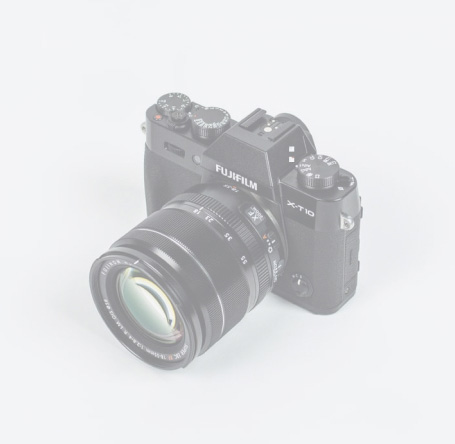
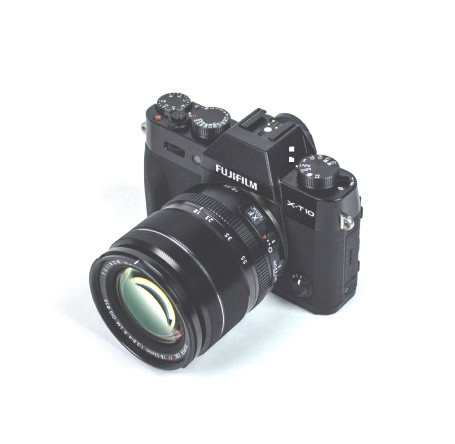
I finished block "latestWorks", added hover effect

Changed region(s): [[0.1846, 0.205, 0.8, 0.8491]]

diff --git a/index.html b/index.html
@@ -176,75 +176,78 @@
           </li>
         </ul>
       </div>
-      <div class="latest-works__btn">
-        <a href="#" class="latest-works__link">
-          <div class="latest-works_block">
-            <h3 class="latest-works__block__title">100 YEARS PHOTOGRAPHY</h3>
-            <div class="latest-works__block__item">
-              <div class="latest-works__block__img">
-                <img class="first-img" src="/images/latest_works_01.jpg" />
-                <img class="hover-img" src="/images/latest_works_01_dark.jpg" />
-              </div>
-              <p class="latest-works__block__text">Photography</p>
+      <div class="latest-works__block">
+        <a href="#" class="latest-works__btn">
+          <h3 class="latest-works__block__title">100 YEARS PHOTOGRAPHY</h3>
+          <div class="latest-works__block__item">
+            <div class="latest-works__block__img">
+              <img src="/images/latest_works_01.jpg" alt="camera" />
+            </div>
+            <div class="latest-works__block-text right">
+              <h5 class="latest-works__text__title">Photography</h5>
+              <p>
+                Lorem ipsum dolor sit amet, consectetur adipisicing elit.
+                Deleniti debitis cum.
+              </p>
             </div>
           </div>
         </a>
       </div>
-      <div class="latest-works__btn">
-        <a href="#" class="latest-works__link">
-          <div class="latest-works_block">
-            <h3 class="latest-works__block__title left">
-              A KITTEN'S <br />
-              LIFE
-            </h3>
-            <div class="latest-works__block__item left">
-              <div class="latest-works__block__img">
-                <img
-                  src="/images/latest_works_02.jpg"
-                  alt="camera"
-                  width="455"
-                />
-              </div>
-              <p class="latest-works__block__text">Photography</p>
+      <div class="latest-works__block">
+        <a href="#" class="latest-works__btn">
+          <h3 class="latest-works__block__title left">
+            A KITTEN'S <br />
+            LIFE
+          </h3>
+          <div class="latest-works__block__item left">
+            <div class="latest-works__block__img">
+              <img src="/images/latest_works_02.jpg" alt="camera" width="455" />
+            </div>
+            <div class="latest-works__block-text">
+              <h5 class="latest-works__text__title">Photography</h5>
+              <p>
+                Lorem ipsum dolor sit amet, consectetur adipisicing elit.
+                Deleniti debitis cum.
+              </p>
             </div>
           </div>
         </a>
       </div>
-      <div class="latest-works__btn">
-        <a href="#" class="latest-works__link">
-          <div class="latest-works_block">
-            <h3 class="latest-works__block__title">
-              GROOVEMADE PRODUCTS FOR MAC
-            </h3>
-            <div class="latest-works__block__item">
-              <div class="latest-works__block__img">
-                <img
-                  src="/images/latest_works_03.jpg"
-                  alt="camera"
-                  width="455"
-                />
-              </div>
-              <p class="latest-works__block__text">Photography</p>
+      <div class="latest-works__block">
+        <a href="#" class="latest-works__btn">
+          <h3 class="latest-works__block__title">
+            GROOVEMADE PRODUCTS FOR MAC
+          </h3>
+          <div class="latest-works__block__item">
+            <div class="latest-works__block__img">
+              <img src="/images/latest_works_03.jpg" alt="camera" width="455" />
+            </div>
+            <div class="latest-works__block-text right">
+              <h5 class="latest-works__text__title">Photography</h5>
+              <p>
+                Lorem ipsum dolor sit amet, consectetur adipisicing elit.
+                Deleniti debitis cum.
+              </p>
             </div>
           </div>
         </a>
       </div>
-      <div class="latest-works__btn">
-        <a href="#" class="latest-works__link">
-          <div class="latest-works_block">
-            <h3 class="latest-works__block__title left">
-              APPLE's <br />
-              LOST MAGIC
-            </h3>
-            <div class="latest-works__block__item left">
-              <div class="latest-works__block__img">
-                <img
-                  src="/images/latest_works_04.jpg"
-                  alt="camera"
-                  width="455"
-                />
-              </div>
-              <p class="latest-works__block__text">Photography</p>
+      <div class="latest-works__block">
+        <a href="#" class="latest-works__btn">
+          <h3 class="latest-works__block__title left">
+            APPLE's <br />
+            LOST MAGIC
+          </h3>
+          <div class="latest-works__block__item left">
+            <div class="latest-works__block__img">
+              <img src="/images/latest_works_04.jpg" alt="camera" width="455" />
+            </div>
+            <div class="latest-works__block-text">
+              <h5 class="latest-works__text__title">Photography</h5>
+              <p>
+                Lorem ipsum dolor sit amet, consectetur adipisicing elit.
+                Deleniti debitis cum.
+              </p>
             </div>
           </div>
         </a>

diff --git a/styles/components/latestWorks.css b/styles/components/latestWorks.css
@@ -9,7 +9,7 @@
 
 .latest-works__menu {
   display: flex;
-  gap: 40px;
+  gap: 38px;
 }
 
 .latest-works__menu-item {
@@ -26,21 +26,16 @@
   }
 }
 
-.latest-works__btn {
+.latest-works__block {
   grid-row: span 4;
   position: relative;
   height: 555px;
-
-  &:hover {
-    cursor: pointer;
-  }
-}
-
-.latest-works__link {
-}
-
-.latest-works_block {
   transition: all 0.5s ease;
+  cursor: pointer;
+}
+
+.latest-works__btn {
+  display: block;
 }
 
 .latest-works__block__title {
@@ -57,51 +52,58 @@
     left: auto;
     right: 0;
   }
-  &:hover {
-    color: var(--color-green);
-  }
 }
 
 .latest-works__block__item {
   display: flex;
   flex-direction: column;
-  align-items: center;
-  gap: 24px;
+  align-items: flex-end;
   position: absolute;
+  gap: 24px;
   top: 0;
   right: 0;
   z-index: -20;
   &.left {
     right: auto;
     left: 0;
+    align-items: flex-start;
   }
 }
 
 .latest-works__block__img {
-  position: relative;
   width: 455px;
   height: 444px;
+  transition: all 0.5s ease;
+  filter: opacity(0.35);
 }
 
-.latest-works__block__img img {
-  width: 100%;
-  height: 100%;
-  position: absolute;
-  top: 0;
-  left: 0;
-  transition: opacity 0.3s ease;
+.latest-works__block:hover .latest-works__block__img {
+  transform: scale(1.05);
+  filter: opacity(1);
 }
 
-.hover-img {
-  opacity: 0;
+.latest-works__block-text {
+  font-size: 13px;
+  color: var(--color-gray);
+  padding: 0 128px;
+  line-height: 1.77;
+  & > h5 {
+    font-size: 18px;
+    font-weight: 300;
+    color: var(--color-black);
+  }
+  &.right {
+    text-align: end;
+  }
 }
 
-/* will add code here later */
-
-.latest-works__block__text {
-  font-size: 18px;
-  color: var(--color-black);
+.latest-works__block:hover .latest-works__block__title,
+.latest-works__block:hover .latest-works__block-text,
+.latest-works__block:hover .latest-works__block-text > h5 {
+  color: var(--color-green);
 }
+
+/* ===== */
 
 .latest-works__item-last {
   display: flex;

diff --git a/styles/variables.css b/styles/variables.css
@@ -1,5 +1,6 @@
 :root {
   --color-black: #252525;
+  --color-gray: #746e6e;
   --color-white: #ffffff;
   --color-green: #4caf50;
   --color-green-light: #70bf73;
